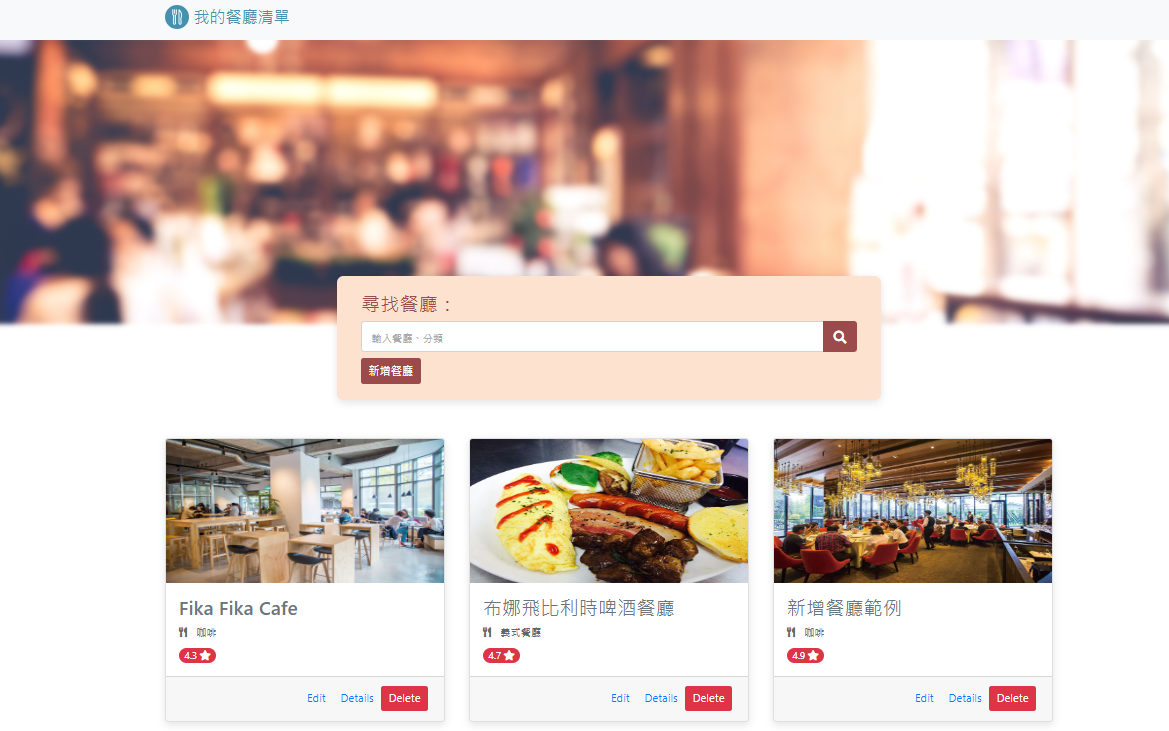
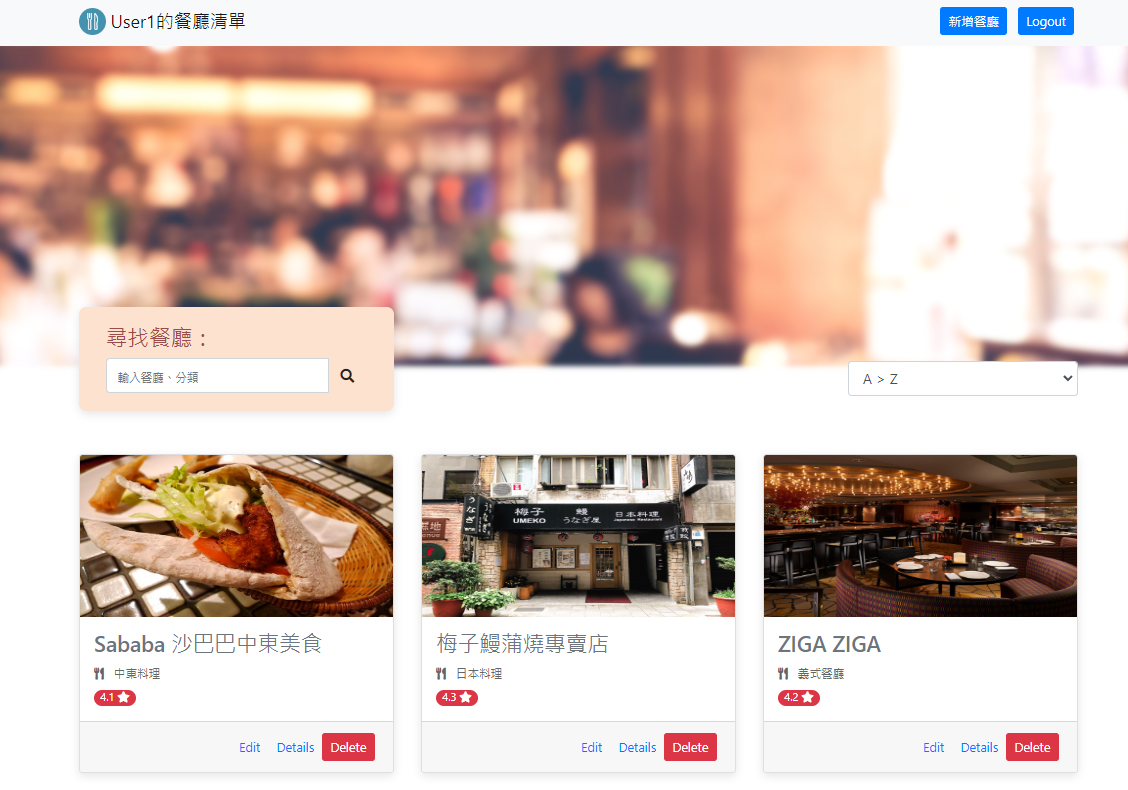
feat: modify readme

diff --git a/README.md b/README.md
@@ -3,7 +3,7 @@
 ![Index page about Restaurant List](./public/images/img.png)
 
 ## 介紹
-簡易的餐廳清單，包含餐廳詳細資料和搜尋功能
+簡易的餐廳清單，包含餐廳詳細資料和搜尋功能，可註冊自己的帳號
 
 ### 功能
 - 列出所有餐廳
@@ -12,6 +12,8 @@
 - 新增餐廳功能
 - 修改餐廳資料功能
 - 刪除餐廳功能
+- 以信箱或Facebook註冊帳號，建立專屬的餐廳清單
+- 密碼以加密形式儲存於資料庫
 
 ## 開始使用
 
@@ -51,3 +53,7 @@
 - Express-session1.17.3
 - Passport: 0.4.1
 - Passport-local: 1.0.0
+- Passport-facebook: 3.0.0
+- Bcryptjs: 2.4.3,
+- Connect-flash: 0.1.1
+- Dotenv: 8.2.0
